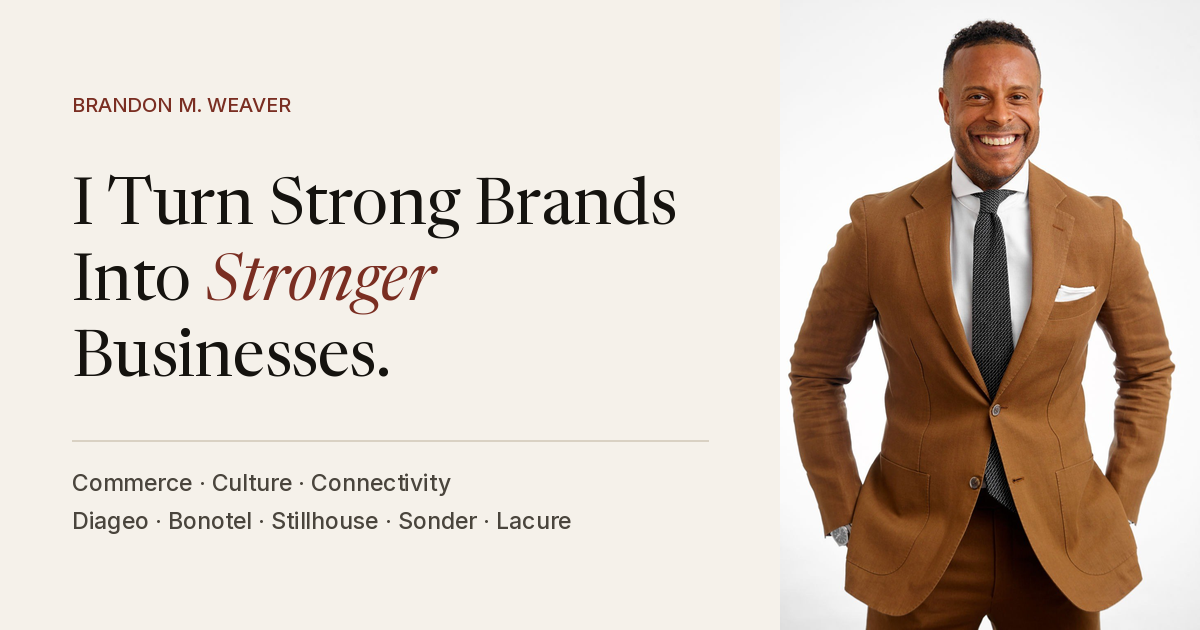
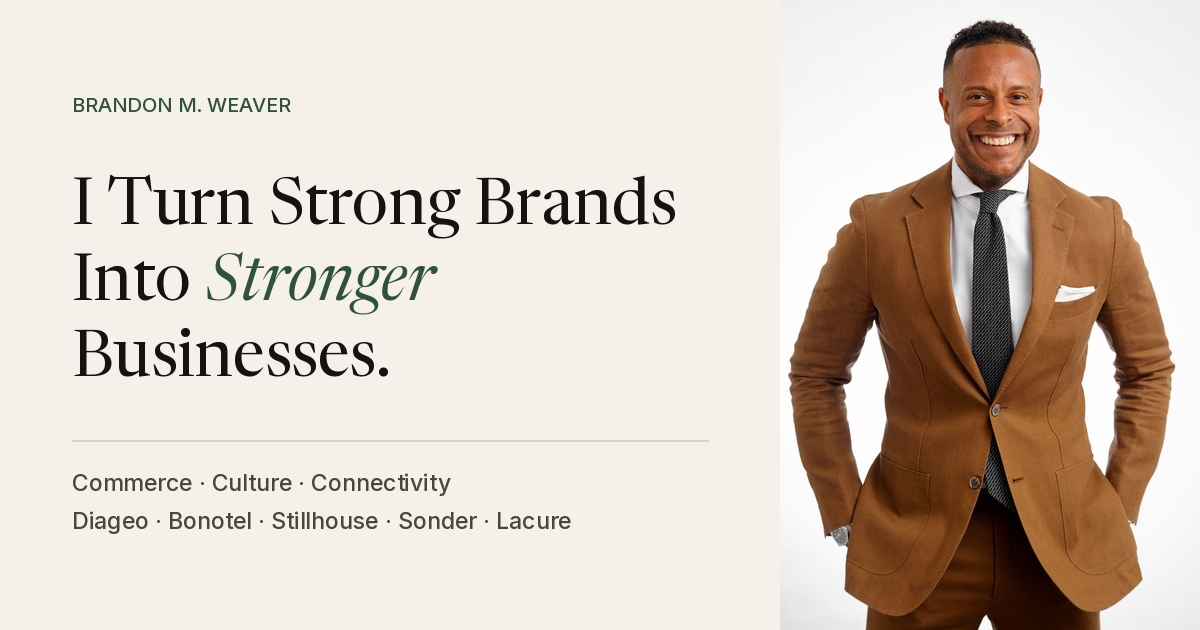
Switch accent from oxblood to hunter green (#2E5339)
Updates buttons, links, headline accent, focus ring, favicon,
touch icon and social share image.

Claude-Session: https://claude.ai/code/session_01RkhWHDQpH7edepwexrD27q

Changed region(s): [[0.185, 0.3921, 0.37, 0.4825], [0.0617, 0.1508, 0.2467, 0.181]]

diff --git a/src/styles/global.css b/src/styles/global.css
@@ -6,9 +6,9 @@
   --ink-2: #4a453d;
   --ink-3: #645d53;
   --rule: #d9d1c3;
-  --accent: #7a2e22;
+  --accent: #2e5339;
   --accent-ink: #f5f1ea;
-  --focus: #b5532f;
+  --focus: #3e7a52;
 
   --serif: 'Newsreader Variable', Georgia, 'Times New Roman', serif;
   --sans: 'Inter Variable', -apple-system, BlinkMacSystemFont, 'Segoe UI', sans-serif;
